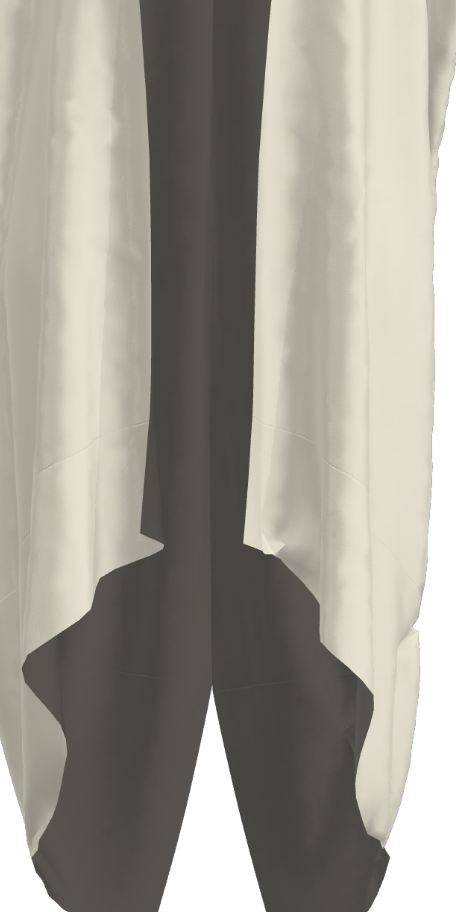
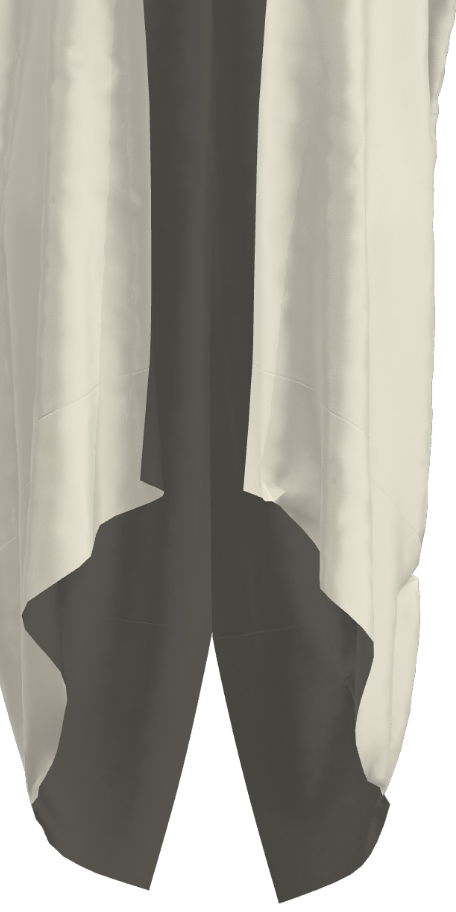
Add makeuse footer to coat page and sort order of coat body tiles

diff --git a/makeuse-coat.html b/makeuse-coat.html
@@ -72,41 +72,38 @@
                             <img id="neckline-coat" class="tile img-fluid" src="assets/images/grid-tiles/neckline-tiles/coat-neck-collar@3x.png" alt="Coat neckline collar">
                         </div>
                         <div id="body-tile-coat" class="garment-tile">
+                            <img id="coat-body-wide-long-rotate" class="og img-fluid" src="assets/images/grid-tiles/body-tiles/coat-body-wide-long-rotate@3x.png" alt="Coat garment-body in 'narrow/cropped' style with rotation">
+                            <img id="coat-body-wide-long" class="tile-off img-fluid" src="assets/images/grid-tiles/body-tiles/coat-body-wide-long@3x.png" alt="Coat garment-body in 'wide/long' style">
+                            <img id="coat-body-wide-hip" class="tile-off img-fluid" src="assets/images/grid-tiles/body-tiles/coat-body-wide-hip@3x.png" alt="Coat garment-body in 'wide/hip' style">
+                            <img id="coat-body-wide-hip-rotate" class="tile-off img-fluid" src="assets/images/grid-tiles/body-tiles/coat-body-wide-hip-rotate@3x.png" alt="Coat garment-body in 'wide/hip' style with rotation">
+                            <img id="coat-body-wide-crop" class="tile-off img-fluid" src="assets/images/grid-tiles/body-tiles/coat-body-wide-crop@3x.png" alt="Coat garment-body in 'wide/cropped' style">
+                            <img id="coat-body-wide-crop-rotate" class="tile-off img-fluid" src="assets/images/grid-tiles/body-tiles/coat-body-wide-crop-rotate@3x.png" alt="Coat garment-body in 'wide/cropped' style with rotation">
                             <img id="coat-body-narrow-crop" class="tile-off img-fluid" src="assets/images/grid-tiles/body-tiles/coat-body-narrow-crop@3x.png" alt="Coat garment-body in 'narrow/cropped' style">
                             <img id="coat-body-narrow-crop-rotate" class="tile-off img-fluid" src="assets/images/grid-tiles/body-tiles/coat-body-narrow-crop-rotate@3x.png" alt="Coat garment-body in 'narrow/cropped' style with rotation">
                             <img id="coat-body-narrow-hip" class="tile-off img-fluid" src="assets/images/grid-tiles/body-tiles/coat-body-narrow-hip@3x.png" alt="Coat garment-body in 'narrow/hip' style with rotation">
                             <img id="coat-body-narrow-hip-rotate" class="tile-off img-fluid" src="assets/images/grid-tiles/body-tiles/coat-body-narrow-hip-rotate@3x.png" alt="Coat garment-body in 'narrow/hip' style with rotation">
                             <img id="coat-body-narrow-long" class="tile-off img-fluid" src="assets/images/grid-tiles/body-tiles/coat-body-narrow-long@3x.png" alt="Coat garment-body in 'narrow/long' style">
                             <img id="coat-body-narrow-long-rotate" class="tile-off img-fluid" src="assets/images/grid-tiles/body-tiles/coat-body-narrow-long-rotate@3x.png" alt="Coat garment-body in 'narrow/long' style with rotation">
-                            <img id="coat-body-wide-crop" class="tile-off img-fluid" src="assets/images/grid-tiles/body-tiles/coat-body-wide-crop@3x.png" alt="Coat garment-body in 'wide/cropped' style">
-                            <img id="coat-body-wide-crop-rotate" class="tile-off img-fluid" src="assets/images/grid-tiles/body-tiles/coat-body-wide-crop-rotate@3x.png" alt="Coat garment-body in 'wide/cropped' style with rotation">
-                            <img id="coat-body-wide-hip" class="tile-off img-fluid" src="assets/images/grid-tiles/body-tiles/coat-body-wide-hip@3x.png" alt="Coat garment-body in 'wide/hip' style">
-                            <img id="coat-body-wide-hip-rotate" class="tile-off img-fluid" src="assets/images/grid-tiles/body-tiles/coat-body-wide-hip-rotate@3x.png" alt="Coat garment-body in 'wide/hip' style with rotation">
-                            <!-- testing this body first -->
-                            <img id="coat-body-wide-long" class="tile-on img-fluid" src="assets/images/grid-tiles/body-tiles/coat-body-wide-long@3x.png" alt="Coat garment-body in 'wide/long' style">
-                            <img id="coat-body-wide-long-rotate" class="tile-off img-fluid" src="assets/images/grid-tiles/body-tiles/coat-body-wide-long-rotate@3x.png" alt="Coat garment-body in 'narrow/cropped' style with rotation">
                         </div>
                         <div id="sleeve-tile-left-coat" class="garment-tile">
+                            <img id="sleeve-left-wide-long-rotate" class="og img-fluid" src="assets/images/grid-tiles/sleeve-tiles/sleeve-left-wide-long-rotate@3x.png" alt="Left-sleeve in 'wide/long' style with rotation">
+                            <img id="sleeve-left-wide-long" class="tile-off img-fluid" src="assets/images/grid-tiles/sleeve-tiles/sleeve-left-wide-long@3x.png" alt="Left-sleeve in 'wide/long' style">
                             <img id="sleeve-left-wide-short" class="tile-off img-fluid" src="assets/images/grid-tiles/sleeve-tiles/sleeve-left-wide-short-@3x.png" alt="Left-sleeve in 'wide/short' style">
                             <img id="sleeve-left-wide-short-rotate" class="tile-off img-fluid" src="assets/images/grid-tiles/sleeve-tiles/sleeve-left-wide-short-rotate@3x.png" alt="Left-sleeve in 'wide/short' style with rotation">
-                            <img id="sleeve-left-wide-long" class="tile-off img-fluid" src="assets/images/grid-tiles/sleeve-tiles/sleeve-left-wide-long@3x.png" alt="Left-sleeve in 'wide/long' style">
-                            <img id="sleeve-left-wide-long-rotate" class="tile-off img-fluid" src="assets/images/grid-tiles/sleeve-tiles/sleeve-left-wide-long-rotate@3x.png" alt="Left-sleeve in 'wide/long' style with rotation">
-                            <img id="sleeve-left-narrow-long" class="tile-off img-fluid" src="assets/images/grid-tiles/sleeve-tiles/sleeve-left-narrow-long@3x.png" alt="Left-sleeve in 'narrow/long' style">
-                            <!-- testing this 'left' sleeve first -->
-                            <img id="sleeve-left-narrow-long-rotate" class="img-fluid" src="assets/images/grid-tiles/sleeve-tiles/sleeve-left-narrow-long-rotate@3x.png" alt="Left-sleeve in 'narrow/long' style with rotation">
                             <img id="sleeve-left-narrow-short" class="tile-off img-fluid" src="assets/images/grid-tiles/sleeve-tiles/sleeve-left-narrow-short@3x.png" alt="Left-sleeve in 'narrow/short' style">
                             <img id="sleeve-left-narrow-short-rotate" class="tile-off img-fluid" src="assets/images/grid-tiles/sleeve-tiles/sleeve-left-narrow-short-rotate@3x.png" alt="Left-sleeve in 'narrow/short' style with rotation">
+                            <img id="sleeve-left-narrow-long" class="tile-off img-fluid" src="assets/images/grid-tiles/sleeve-tiles/sleeve-left-narrow-long@3x.png" alt="Left-sleeve in 'narrow/long' style">
+                            <img id="sleeve-left-narrow-long-rotate" class="tile-off img-fluid" src="assets/images/grid-tiles/sleeve-tiles/sleeve-left-narrow-long-rotate@3x.png" alt="Left-sleeve in 'narrow/long' style with rotation">
                         </div>
                         <div id="sleeve-tile-right-coat" class="garment-tile">
+                            <img id="sleeve-right-wide-long-rotate" class="og img-fluid" src="assets/images/grid-tiles/sleeve-tiles/sleeve-right-wide-long-rotate@3x.png" alt="right-sleeve in 'wide/long' style with rotation">
+                            <img id="sleeve-right-wide-long" class="tile-off img-fluid" src="assets/images/grid-tiles/sleeve-tiles/sleeve-right-wide-long@3x.png" alt="right-sleeve in 'wide/long' style">
                             <img id="sleeve-right-wide-short" class="tile-off img-fluid" src="assets/images/grid-tiles/sleeve-tiles/sleeve-right-wide-short@3x.png" alt="right-sleeve in 'wide/short' style">
                             <img id="sleeve-right-wide-short-rotate" class="tile-off img-fluid" src="assets/images/grid-tiles/sleeve-tiles/sleeve-right-wide-short-rotate@3x.png" alt="right-sleeve in 'wide/short' style with rotation">
-                            <img id="sleeve-right-wide-long" class="tile-off img-fluid" src="assets/images/grid-tiles/sleeve-tiles/sleeve-right-wide-long@3x.png" alt="right-sleeve in 'wide/long' style">
-                            <img id="sleeve-right-wide-long-rotate" class="tile-off img-fluid" src="assets/images/grid-tiles/sleeve-tiles/sleeve-right-wide-long-rotate@3x.png" alt="right-sleeve in 'wide/long' style with rotation">
-                            <img id="sleeve-right-narrow-long" class="tile-off img-fluid" src="assets/images/grid-tiles/sleeve-tiles/sleeve-right-narrow-long@3x.png" alt="right-sleeve in 'narrow/long' style">
-                            <!-- testing this 'right' sleeve first -->
-                            <img id="sleeve-right-narrow-long-rotate" class="img-fluid" src="assets/images/grid-tiles/sleeve-tiles/sleeve-right-narrow-long-rotate@3x.png" alt="right-sleeve in 'narrow/long' style with rotation">
                             <img id="sleeve-right-narrow-short" class="tile-off img-fluid" src="assets/images/grid-tiles/sleeve-tiles/sleeve-right-narrow-short@3x.png" alt="right-sleeve in 'narrow/short' style">
                             <img id="sleeve-right-narrow-short-rotate" class="tile-off img-fluid" src="assets/images/grid-tiles/sleeve-tiles/sleeve-right-narrow-short-rotate@3x.png" alt="right-sleeve in 'narrow/short' style with rotation">
+                            <img id="sleeve-right-narrow-long" class="tile-off img-fluid" src="assets/images/grid-tiles/sleeve-tiles/sleeve-right-narrow-long@3x.png" alt="right-sleeve in 'narrow/long' style">
+                            <img id="sleeve-right-narrow-long-rotate" class="tile-off img-fluid" src="assets/images/grid-tiles/sleeve-tiles/sleeve-right-narrow-long-rotate@3x.png" alt="right-sleeve in 'narrow/long' style with rotation">
                         </div>
 
                         <div class="sizing-info">
@@ -235,6 +232,22 @@
 
             </div>
         </div>
+
+        <footer class="mu-footer container-flex">
+            <div class="col-4">
+                <p class="t-light">
+                    Make/Use is a research project led by Holly McQuillan of Massey University. It explores the concept of zero-waste user modifiable clothing.
+                
+                <br>
+
+                    <strong>
+                        <a href="https://www.facebook.com/makeruser" target="_blank">facebook</a>
+                        <a href="https://twitter.com/search?q=%23makeuse&amp;" target="_blank">#makeuse on Twitter</a>
+                        <a href="https://instagram.com/explore/tags/makeuse/" target="_blank">#makeuse on instagram</a>
+                    </strong>
+                </p>
+            </div>
+        </footer>
 
         
         <script src="https://code.jquery.com/jquery-3.5.1.slim.min.js" integrity="sha384-DfXdz2htPH0lsSSs5nCTpuj/zy4C+OGpamoFVy38MVBnE+IbbVYUew+OrCXaRkfj" crossorigin="anonymous"></script>

diff --git a/index.html b/index.html
@@ -97,18 +97,6 @@
                             <img id="tshirt-body-narrow-hip-rotate" class="img-fluid" src="assets/images/grid-tiles/body-tiles/tshirt-body-narrow-hip-rotate@3x.png" alt="Tshirt garment-body in 'narrow/hip' style with rotation">
                             <img id="tshirt-body-narrow-long" class="img-fluid" src="assets/images/grid-tiles/body-tiles/tshirt-body-narrow-long@3x.png" alt="Tshirt garment-body in 'narrow/long' style">
                             <img id="tshirt-body-narrow-long-rotate" class="img-fluid" src="assets/images/grid-tiles/body-tiles/tshirt-body-narrow-long-rotate@3x.png" alt="Tshirt garment-body in 'narrow/long' style with rotation">
-                            <!-- <img id="coat-body-narrow-crop" class="img-fluid" src="assets/images/grid-tiles/body-tiles/coat-body-narrow-crop@3x.png" alt="Coat garment-body in 'narrow/cropped' style">
-                            <img id="coat-body-narrow-crop-rotate" class="img-fluid" src="assets/images/grid-tiles/body-tiles/coat-body-narrow-crop-rotate@3x.png" alt="Coat garment-body in 'narrow/cropped' style with rotation">
-                            <img id="coat-body-narrow-hip" class="img-fluid" src="assets/images/grid-tiles/body-tiles/coat-body-narrow-hip@3x.png" alt="Coat garment-body in 'narrow/hip' style with rotation">
-                            <img id="coat-body-narrow-hip-rotate" class="img-fluid" src="assets/images/grid-tiles/body-tiles/coat-body-narrow-hip-rotate@3x.png" alt="Coat garment-body in 'narrow/hip' style with rotation">
-                            <img id="coat-body-narrow-long" class="img-fluid" src="assets/images/grid-tiles/body-tiles/coat-body-narrow-long@3x.png" alt="Coat garment-body in 'narrow/long' style">
-                            <img id="coat-body-narrow-long-rotate" class="img-fluid" src="assets/images/grid-tiles/body-tiles/coat-body-narrow-long-rotate@3x.png" alt="Coat garment-body in 'narrow/long' style with rotation">
-                            <img id="coat-body-wide-crop" class="img-fluid" src="assets/images/grid-tiles/body-tiles/coat-body-wide-crop@3x.png" alt="Coat garment-body in 'wide/cropped' style">
-                            <img id="coat-body-wide-crop-rotate" class="img-fluid" src="assets/images/grid-tiles/body-tiles/coat-body-wide-crop-rotate@3x.png" alt="Coat garment-body in 'wide/cropped' style with rotation">
-                            <img id="coat-body-wide-hip" class="img-fluid" src="assets/images/grid-tiles/body-tiles/coat-body-wide-hip@3x.png" alt="Coat garment-body in 'wide/hip' style">
-                            <img id="coat-body-wide-hip-rotate" class="img-fluid" src="assets/images/grid-tiles/body-tiles/coat-body-wide-hip-rotate@3x.png" alt="Coat garment-body in 'wide/hip' style with rotation">
-                            <img id="coat-body-wide-long" class="img-fluid" src="assets/images/grid-tiles/body-tiles/coat-body-wide-long@3x.png" alt="Coat garment-body in 'wide/long' style">
-                            <img id="coat-body-wide-long-rotate" class="img-fluid" src="assets/images/grid-tiles/body-tiles/coat-body-wide-long-rotate@3x.png" alt="Coat garment-body in 'narrow/cropped' style with rotation"> -->
                         </div>
                         <div id="sleeve-tile-right" class="garment-tile">
                             <img id="sleeve-right-wide-long" class="img-fluid" src="assets/images/grid-tiles/sleeve-tiles/sleeve-right-wide-long@3x.png" alt="right-sleeve in 'wide/long' style">

diff --git a/assets/css/style.css b/assets/css/style.css
@@ -10,11 +10,16 @@ html, body {
     margin: 0;
     flex-wrap: wrap;
     background-color:#fffefe;
+    /* background-color: #d7d7d7; */
     font-family: 'Ubuntu', sans-serif;
 }
 
-.row {
-    background-color: #fffefe;
+.mu-footer {
+    display: block;
+    width: 100%;
+    height: 290px;
+    padding: 40px 25px;
+    background-color: #4a494a;
 }
 
 /* \\---  Colors  ---///////////////////////////// */
@@ -68,6 +73,7 @@ body {
     list-style-type: none;
     font-family: 'Ubuntu', "sans-serif";
     font-weight: 400;
+    font-size: 14px;
     font-style: normal;
 }
 
@@ -192,7 +198,7 @@ a {
 
 /* \\---  Body Layout  ---// */
 
-.colorblock {
+/* .colorblock {
     display: grid;
     width: 100%;
     min-width: 100vw;
@@ -200,15 +206,7 @@ a {
     background-color: #ffb100;
     background-color: #d7d7d7;
     background-color: #b7b3a7;
-}
-
-.grid-preview-panel {
-    display: grid;
-    grid-template-columns: 3fr;
-    grid-template-rows: 3fr 1fr;
-    padding: 24px 18px 90px 18px;
-    z-index: -10;
-}
+} */
 
 /* \\---  Garment Grid  ---/////////////////////// */
 
@@ -306,31 +304,9 @@ a {
 
 /* \\---  Garment Grid-Tile Sequencing  ---/////////////////////// */
 
- #grid-wrapper-coat .tile-off {
+.tile-off {
     display: none;
 }
-
-/* #neckline-collar, #neckline-wide, #neckline-coat,
-
-#sleeve-left-narrow-long, #sleeve-left-narrow-long-rotate, #sleeve-left-narrow-short,
-#sleeve-left-narrow-short-rotate, #sleeve-left-wide-long, #sleeve-left-wide-long-rotate,
-#sleeve-left-wide-short-rotate,
-
-#sleeve-right-narrow-long, #sleeve-right-narrow-long-rotate, #sleeve-right-narrow-short, 
-#sleeve-right-narrow-short-rotate, #sleeve-right-wide-long, #sleeve-right-wide-long-rotate,
-#sleeve-right-wide-short-rotate,
-
-#tshirt-body-narrow-crop, #tshirt-body-narrow-crop-rotate, #tshirt-body-narrow-hip, 
-#tshirt-body-narrow-hip-rotate, #tshirt-body-narrow-long, #tshirt-body-narrow-long-rotate,
-#tshirt-body-wide-crop-rotate, #tshirt-body-wide-hip, #tshirt-body-wide-hip-rotate, 
-#tshirt-body-wide-long, #tshirt-body-wide-long-rotate,
-
-#coat-body-narrow-crop, #coat-body-narrow-crop-rotate, #coat-body-narrow-hip, 
-#coat-body-narrow-hip-rotate, #coat-body-narrow-long, #coat-body-narrow-long-rotate,
-#coat-body-wide-crop, #coat-body-wide-crop-rotate, #coat-body-wide-hip, 
-#coat-body-wide-hip-rotate, #coat-body-wide-long, #coat-body-wide-long-rotate {
-    display: none;
-} */
 
 .neck-bg {
     display: grid;
